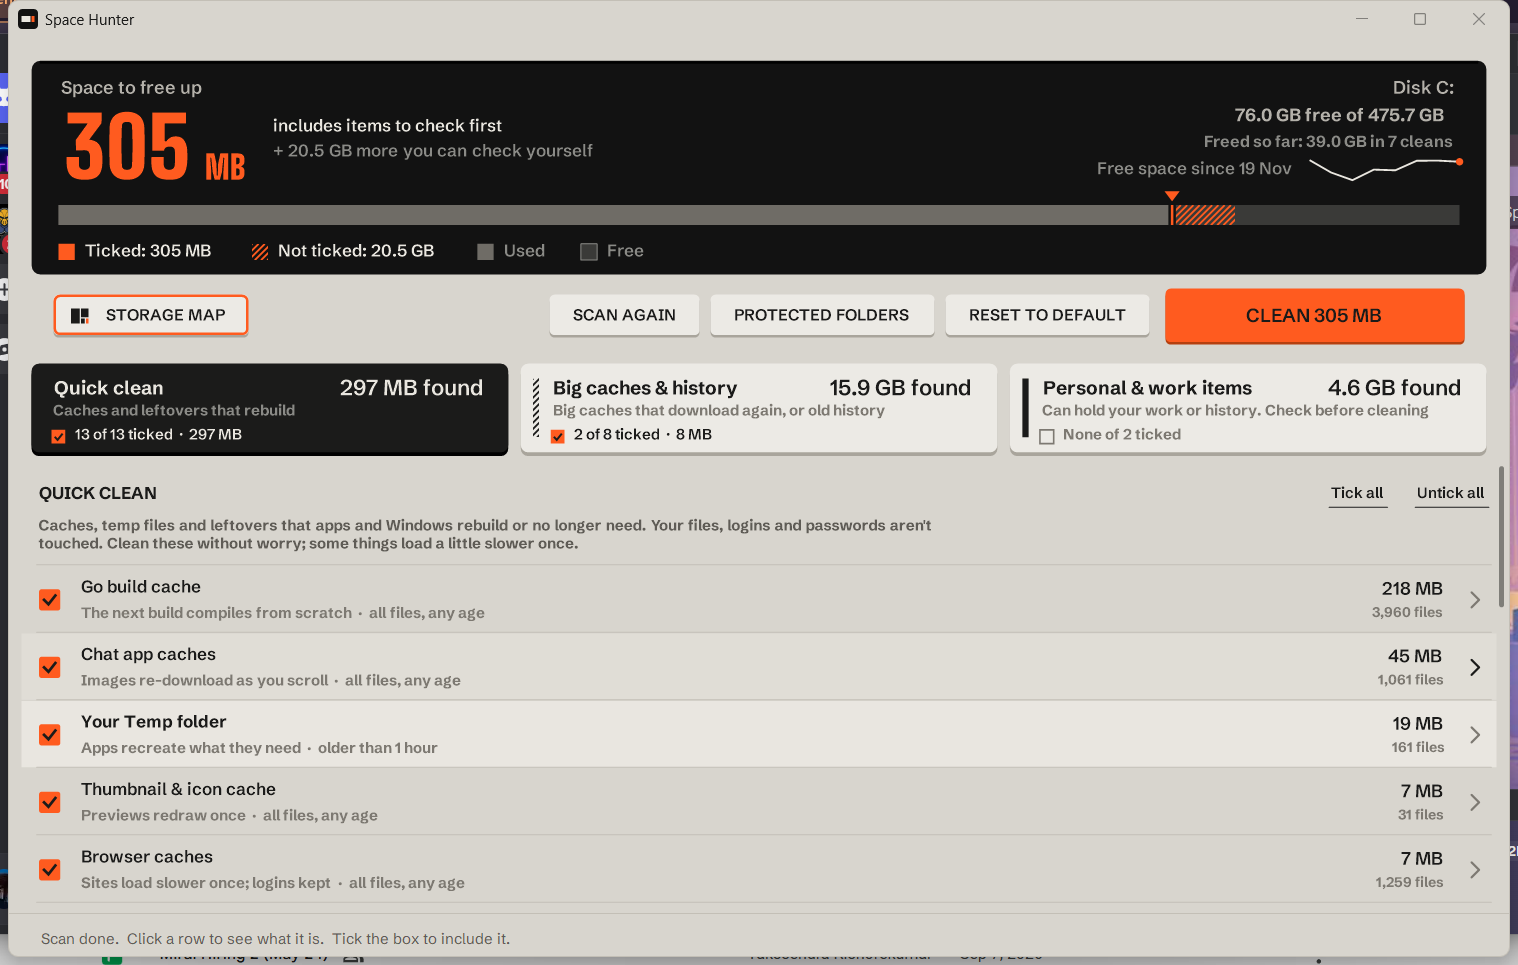
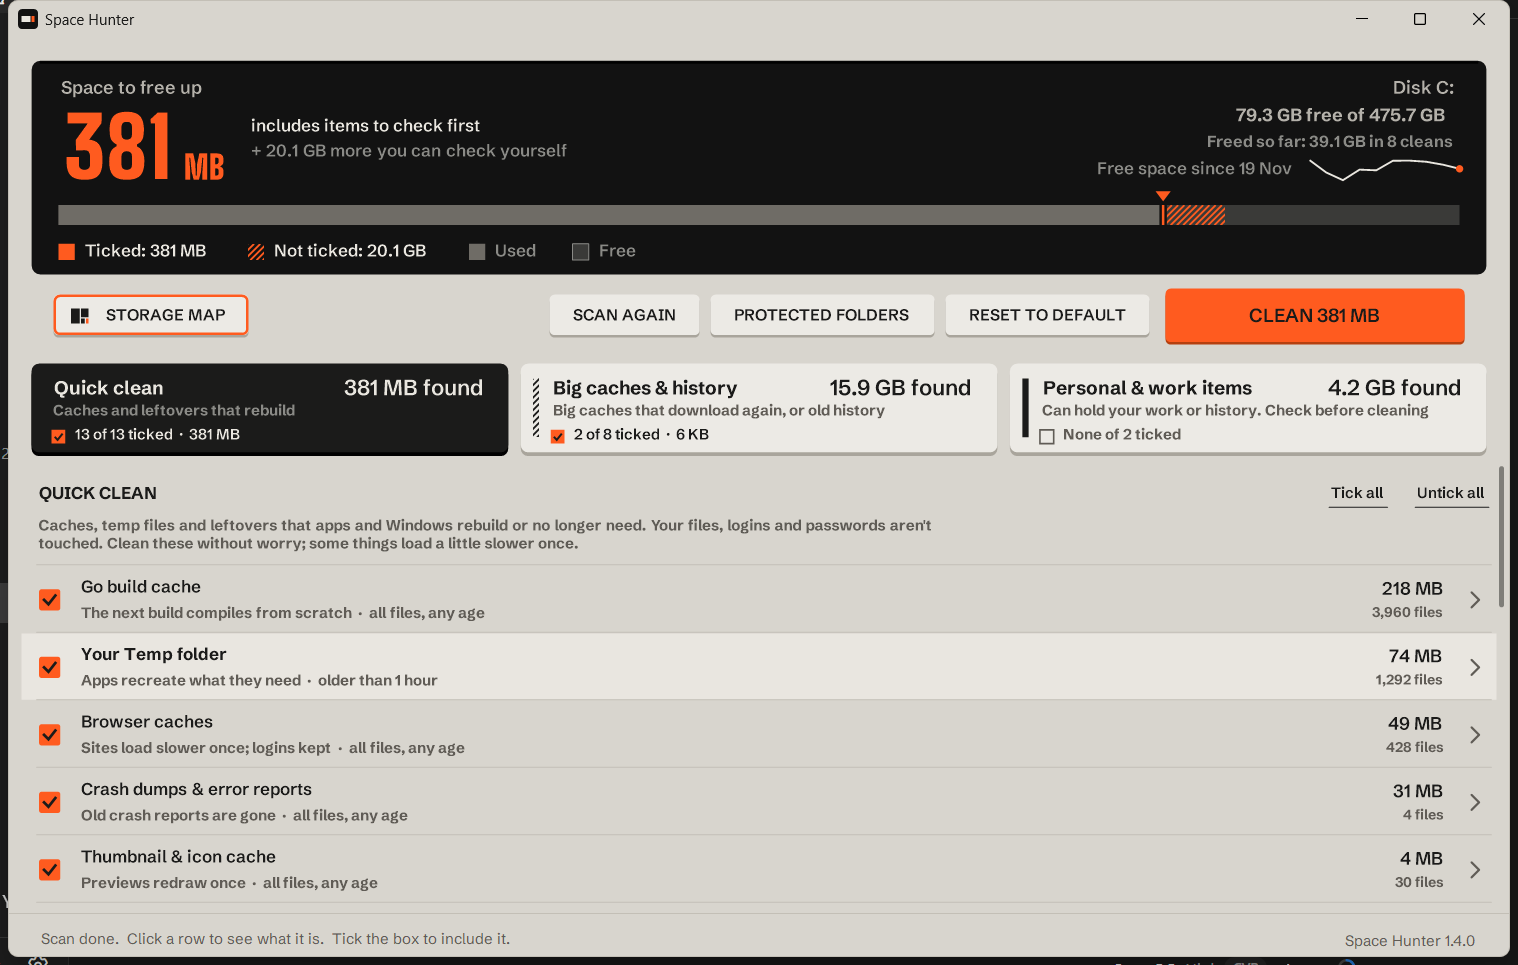
1.4.0: version 1.4.0, Linux test judges backdated files by last change (a new test checks a file that just arrived stays), empty-folder test, version label aligned, README/CHANGELOG/SECURITY and screenshots updated

diff --git a/windows/src/MainWindow.cs b/windows/src/MainWindow.cs
@@ -716,7 +716,7 @@ namespace SpaceHunter
 
             status = new Label { Dock = DockStyle.Bottom, Height = Theme.D(34), Padding = Theme.Pad(22, 10, 0, 0), ForeColor = Theme.Muted, Font = Theme.Sans(9f), BackColor = Theme.Chassis, UseMnemonic = false };
             // which version this is, always visible (bottom right)
-            status.Controls.Add(new Label { Text = "Space Hunter " + AppVersion.Text, Dock = DockStyle.Right, AutoSize = false, Width = Theme.D(170), Padding = Theme.Pad(0, 0, 22, 0),
+            status.Controls.Add(new Label { Text = "Space Hunter " + AppVersion.Text, Dock = DockStyle.Right, AutoSize = false, Width = Theme.D(170), Padding = Theme.Pad(0, 11, 22, 0),
                                             TextAlign = ContentAlignment.TopRight, ForeColor = Theme.Soft, Font = Theme.Sans(8.5f), BackColor = Theme.Chassis, UseMnemonic = false });
             divider = new Panel { Dock = DockStyle.Bottom, Height = Math.Max(1, Theme.D(1)), BackColor = Theme.Line };
             BuildUpdateBar();

diff --git a/linux/src/engine.rs b/linux/src/engine.rs
@@ -379,10 +379,15 @@ fn newest(dir: &Path) -> SystemTime {
     n
 }
 
+// Test hook only (--test-engine --by-changed): judge age by "last changed" alone, because a test can backdate that
+// (touch -d) but never when a file arrived.
+pub static BY_CHANGED_ONLY: std::sync::atomic::AtomicBool = std::sync::atomic::AtomicBool::new(false);
+
 // A file's age: the newer of "last changed" and "arrived here" (copying or unzipping sets a new status-change time),
 // so photos copied in today count as new, whatever their own date.
 pub fn age_time(m: &fs::Metadata) -> SystemTime {
     let changed = m.modified().unwrap_or(SystemTime::UNIX_EPOCH);
+    if BY_CHANGED_ONLY.load(std::sync::atomic::Ordering::Relaxed) { return changed; }
     let arrived = SystemTime::UNIX_EPOCH + Duration::from_secs(m.ctime().max(0) as u64);
     if arrived > changed { arrived } else { changed }
 }

diff --git a/linux/src/main.rs b/linux/src/main.rs
@@ -181,6 +181,7 @@ fn main() -> glib::ExitCode {
     if let Some(i) = args.iter().position(|a| a == "--test-engine") {
         let dir = std::path::PathBuf::from(args.get(i + 1).cloned().unwrap_or_default());
         let sub = args.iter().any(|a| a == "--subfolders");
+        if args.iter().any(|a| a == "--by-changed") { engine::BY_CHANGED_ONLY.store(true, std::sync::atomic::Ordering::Relaxed); }
         if !engine::is_safe_root(&dir, false, false) { println!("REFUSED {}", dir.display()); return glib::ExitCode::from(3i32); }
         let c = engine::Cat {
             id: "test".into(), name: "Test folder".into(), level: engine::Level::Safe,

diff --git a/README.md b/README.md
@@ -20,9 +20,9 @@ Windows: `SpaceHunter.exe` · Mac: `SpaceHunter-mac.zip` · Linux: `SpaceHunter-
   history; check before cleaning).
 - **Explains each one**: click a row to see what it is, what gets deleted, whether it's safe and what happens after,
   and choose "only files older than N days" or "everything". **What's inside** lists the folders and files it would
-  clean, with the folder each comes from; untick anything that should stay.
+  clean, with their sizes and the folder each comes from; untick anything that should stay.
 - **Asks before cleaning**. Quick clean is deleted for good (caches rebuild, so the bin would only fill up); for
-  everything else you choose **Permanently delete** or **Recycle Bin / Trash**. It shows each file as it goes.
+  everything else you choose **Permanently delete** or **Recycle Bin / Trash**. It shows each file as it goes, then a short list of what was cleaned.
   Cleaning runs in its own window, so you can keep looking around. On Linux, system folders such as downloaded
   updates ask for your password once.
 - **Storage map**: see how your whole disk is split up, folder by folder, on any drive (about 10 seconds for a full
@@ -36,10 +36,12 @@ The same app on Linux (and on Mac), with the same names, look and features:
 
 ## Safe by design
 
-- Files in use, or changed more recently than an item's age setting, are skipped, never forced.
+- Files in use, or changed or added more recently than an item's age setting, are skipped, never forced. Photos you
+  copied or unzipped today count as new, whatever their own date.
 - Personal folders (Documents, Desktop, Pictures, OneDrive, `.ssh` and similar) are never cleaned. Folders you mark
-  as **protected** are never touched, and AI agents' memory folders are always skipped.
-- Its only network request is one check for a new version when it opens. Updates install only if they're signed
+  as **protected** are never touched, and AI agents' memory folders are always skipped. AI tools' and editors' own
+  settings folders (`.claude`, `.codex`, `.vscode` and similar) can't be added to the cleanup list.
+- Its only network use is one check on GitHub for a new version when it opens. Updates install only if they're signed
   with the project's key.
 
 ## More

diff --git a/CHANGELOG.md b/CHANGELOG.md
@@ -3,6 +3,29 @@
 All notable changes to Space Hunter. Versions follow [semantic versioning](https://semver.org): the last number is
 for fixes, the middle number is for new features, and the first number is for big changes.
 
+## 1.4.0 (2026-11-19)
+
+- **Update checks work on shared networks.** On a busy network (an office, a campus, a hotspot shared by many people)
+  GitHub could refuse the update check, so no update was ever offered. Space Hunter now asks a second way when that
+  happens. If you're on 1.3.1 or older and never saw an update, download this version once from the
+  [download page](https://github.com/knox-101/space-hunter/releases/latest); after that, updates arrive by themselves.
+- **The version is always shown**, bottom right of the main window.
+- **A file's age counts from when it arrived.** Photos or projects you copied, unzipped or downloaded today count as
+  new, even if their own date is years old, so an "older than N days" item never takes them.
+- **Empty folders:** a clean removes the folders it emptied, and empty folders older than the item's age. An empty
+  folder an app made a moment ago stays.
+- **When a clean finishes**, the window shows a short list of what was cleaned, item by item, instead of every
+  single file (every file is still in the log).
+- **Storage map:** folders that can't be added say why in a few calm words ("Your own files", "App settings",
+  "Browser profile") instead of a long warning on every row. Closing the map stops its scan straight away.
+- AI tools' and editors' own folders (`.claude`, `.codex`, `.gemini`, `.cursor`, `.vscode`, `.config` and similar)
+  can't be added to the cleanup list: they hold settings and sign-ins. Their caches and old chats stay cleanable
+  items as before.
+- Small grey text is darker, so it's easier to read.
+- A size measured a moment ago can no longer be overwritten by an older, slower measurement of the same item.
+- Linux: **What's inside** shows each folder's size, and the header reads "Freed so far", the same as on Windows
+  and Mac.
+
 ## 1.3.1 (2026-11-19)
 
 Fixes from a full stress test. Updating is recommended.

diff --git a/SECURITY.md b/SECURITY.md
@@ -15,8 +15,8 @@ You'll get a reply within a week. Fixes go out as a new release, credited to you
 
 ## What Space Hunter promises
 
-- It has no account and no telemetry. Its only network request is one check for a newer release on GitHub when it
-  opens; nothing about you or your files is sent, and offline it simply skips the check.
+- It has no account and no telemetry. Its only network use is one check for a newer release on GitHub when it
+  opens (if GitHub's API is busy, it reads the release page instead); nothing about you or your files is sent, and offline it simply skips the check.
 - Updates are installed only if their signature matches the project's release key, which is built into the app.
 - It only deletes inside the folders listed for each item, or folders you added yourself.
 - It never cleans personal folders, protected folders or AI agents' memory folders, and it never follows links or
